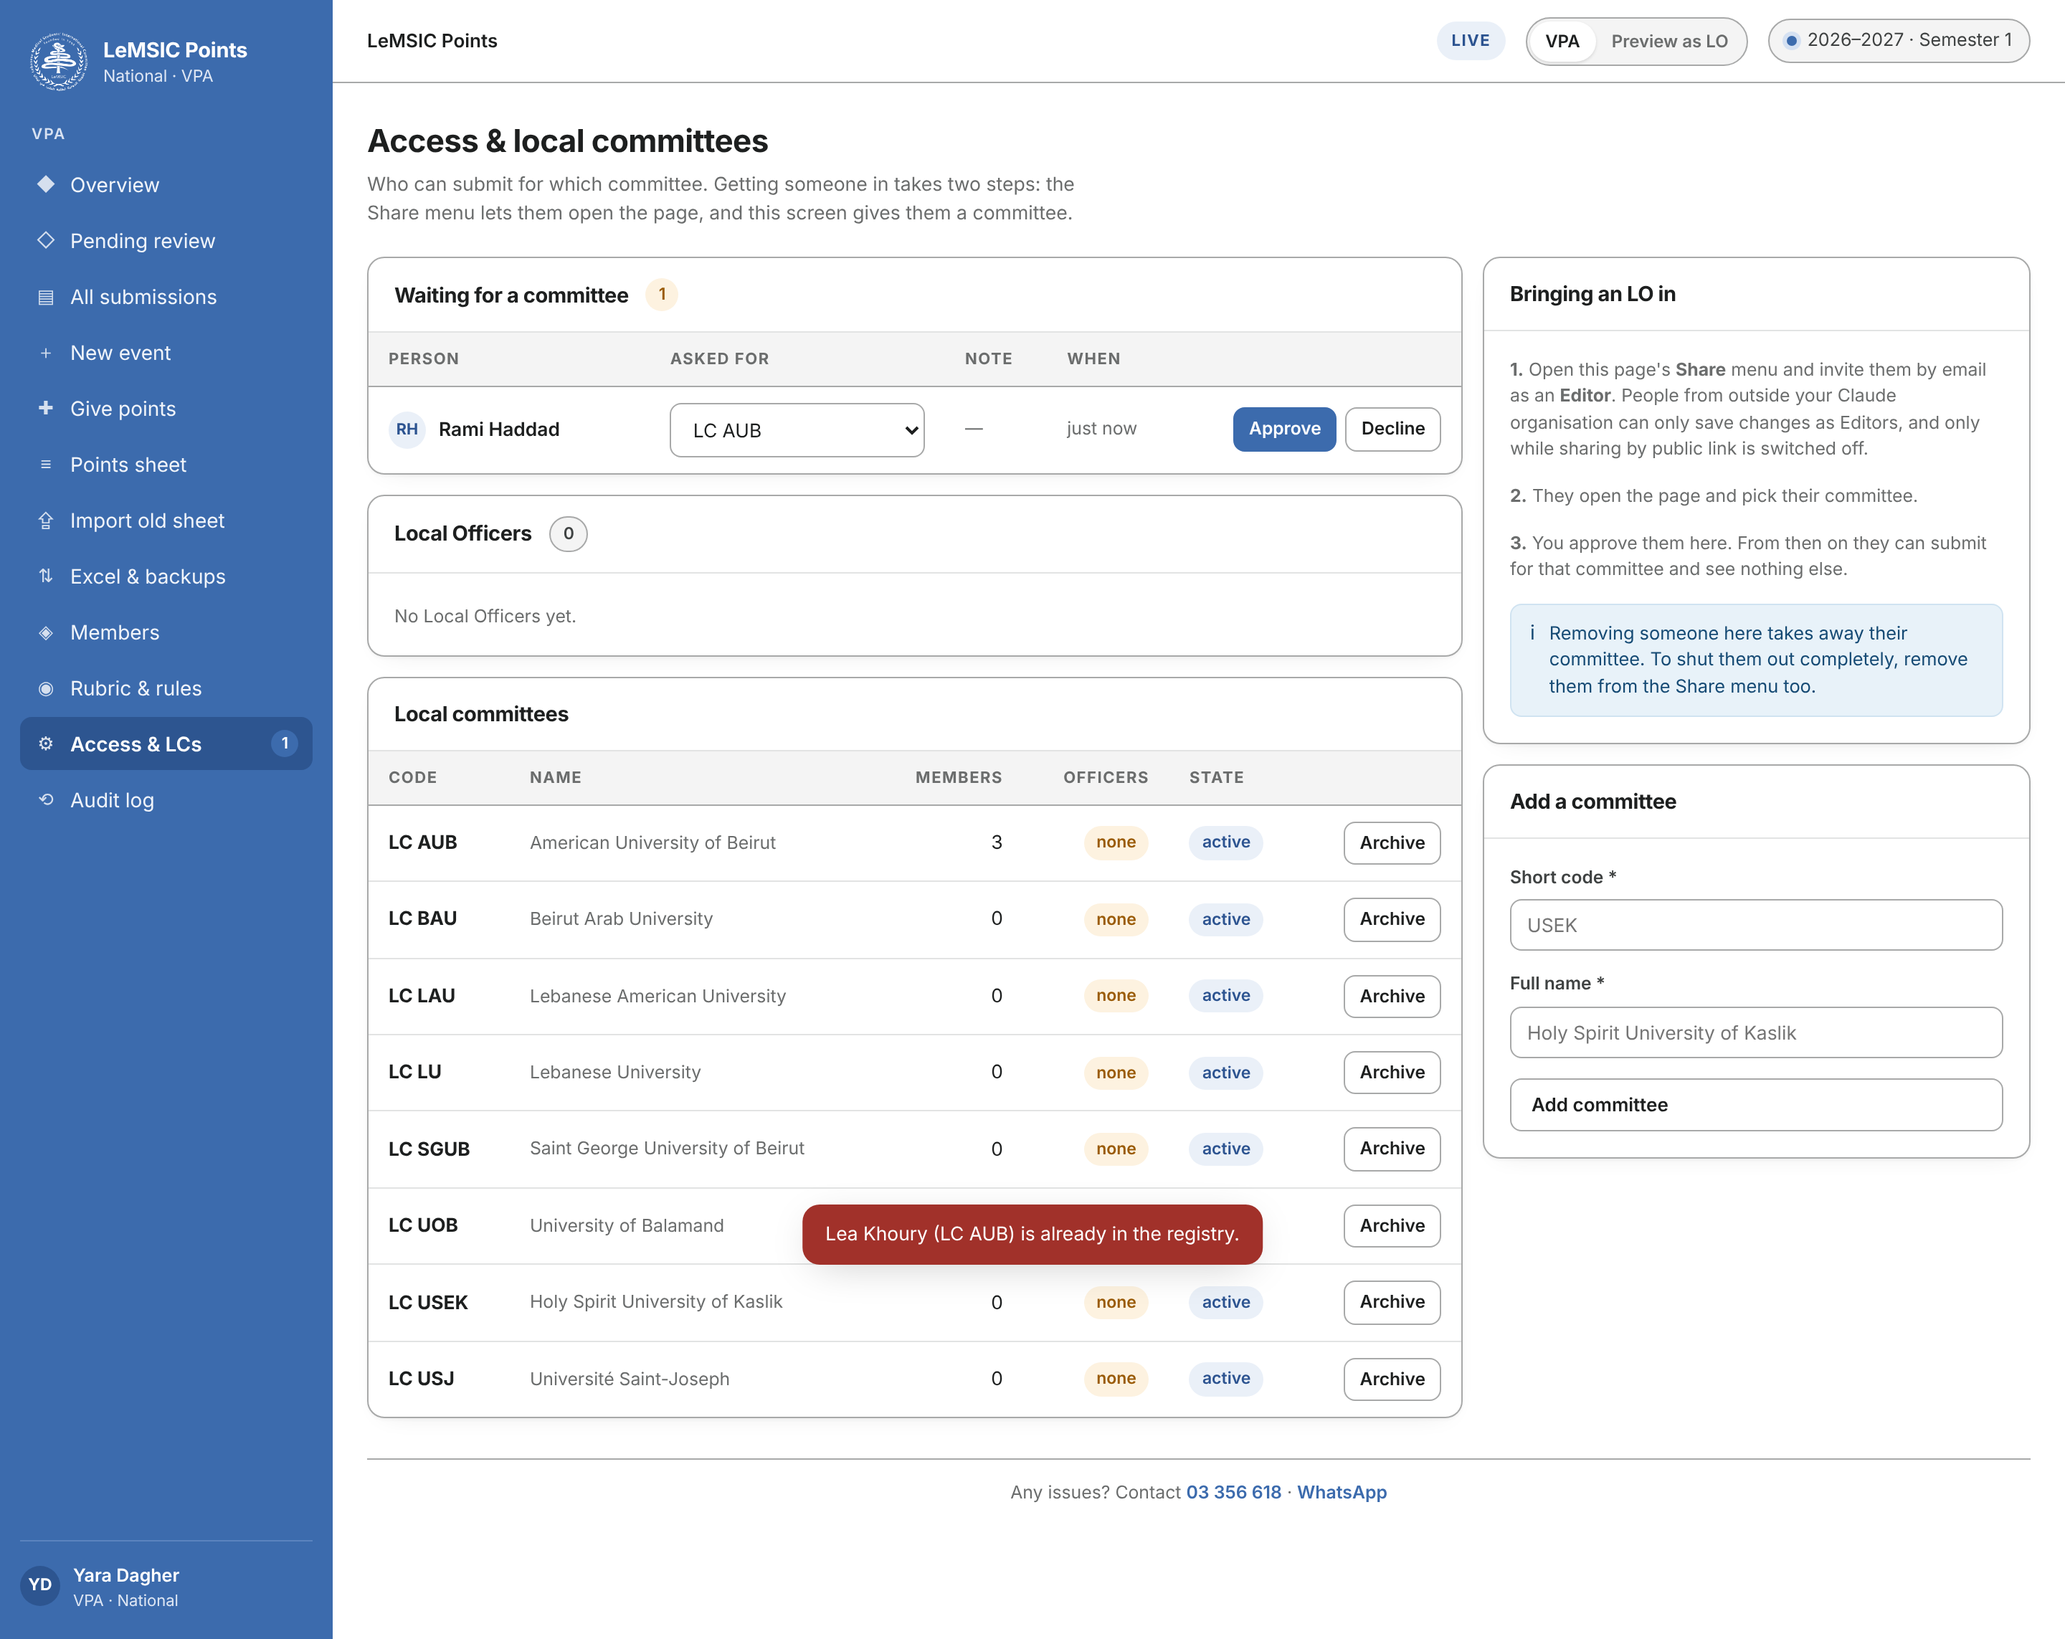
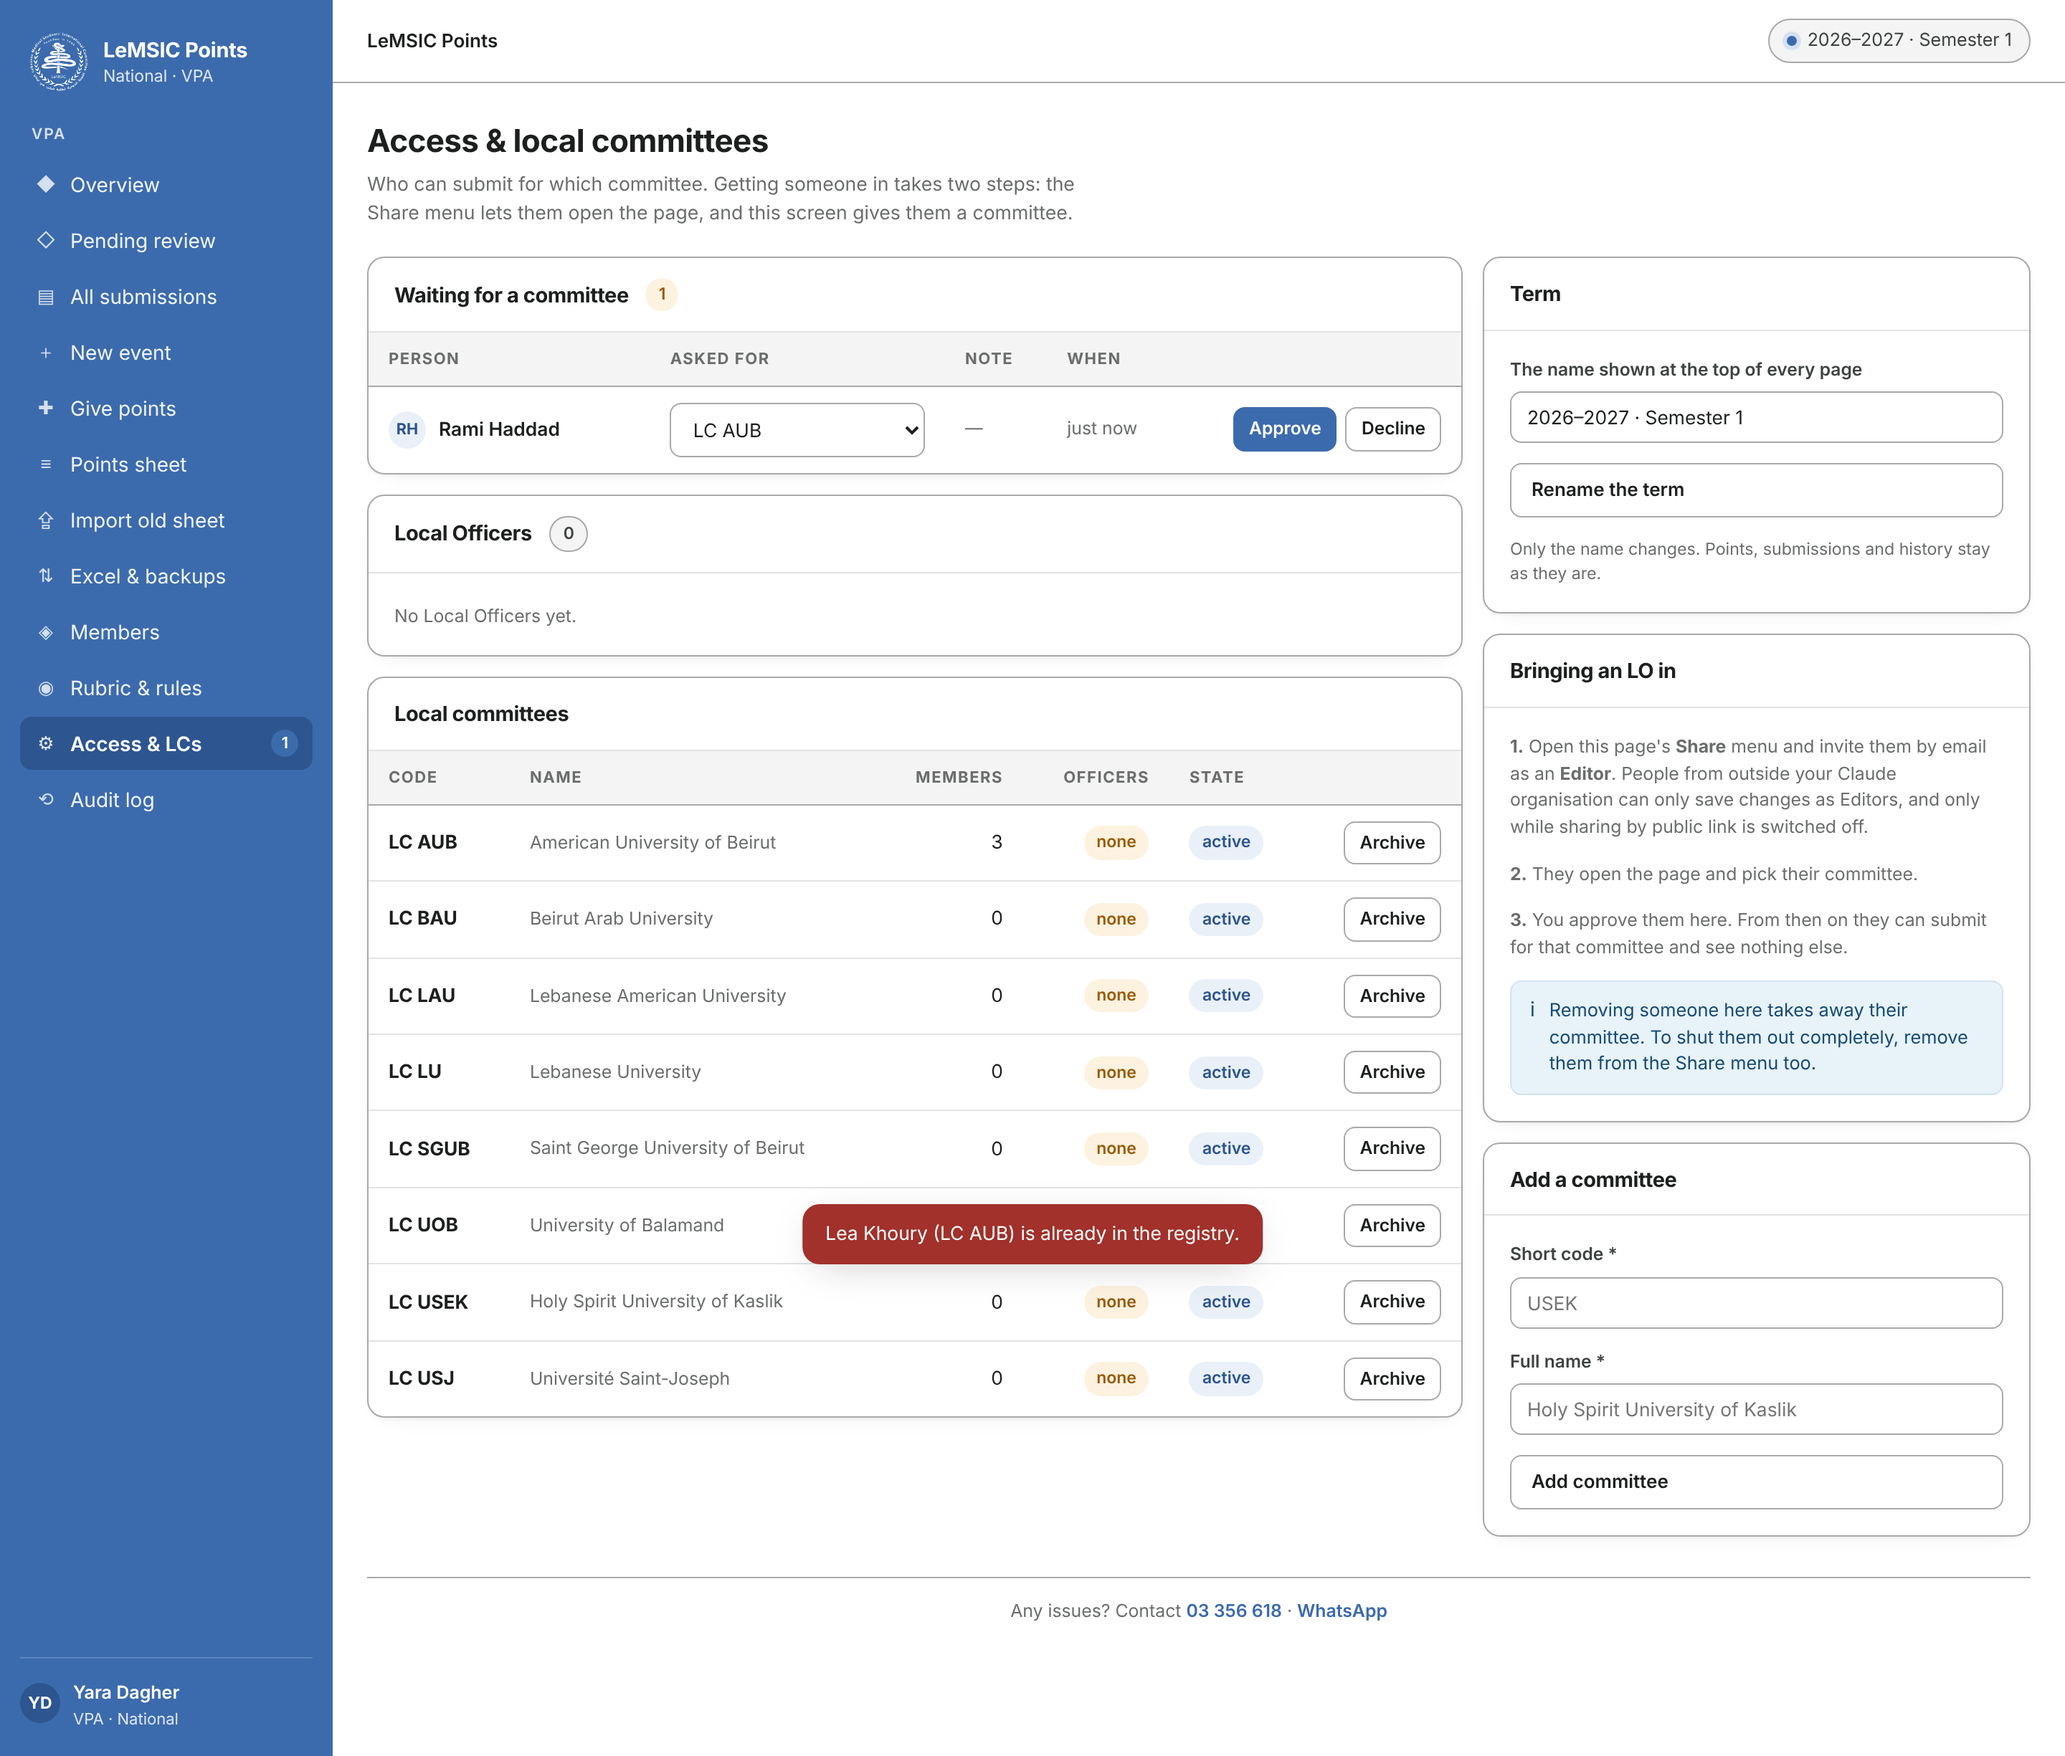
Drop the Live label and the Preview-as-LO switch from the top bar
Only the demo still labels itself. The VPA always sees the VPA
screens; the top bar keeps the term and, once connected, the Excel
status.

Claude-Session: https://claude.ai/code/session_012bK2P4cmT6baufXMRm4cyf

diff --git a/artifact/app.template.html b/artifact/app.template.html
@@ -2211,11 +2211,11 @@ function render() {
   const subtitle = isVpa() ? "National · VPA" : S.role === "none" ? "Waiting for access" : "LC " + (myLc() || "");
   const nameShown = S.mode === "demo" ? DEMO_PEOPLE[S.uid] : S.platform === "firebase" ? positionLabel(S.uid) : (S.myName || "You");
 
-  const modeChip = `<span class="modechip ${S.mode}">${S.mode === "live" ? "Live" : "Demo"}</span>`;
+  const modeChip = S.mode === "demo" ? `<span class="modechip demo">Demo</span>` : "";
   const xlChip = isVpa() && msConfig() && S.excel && S.excel.itemId
     ? `<button class="pill ${S.xlBusy ? "flat" : excelBehind() ? "pend" : "ok"}" style="border:0;cursor:pointer" data-act="go" data-r="excel" title="The shared Excel workbook">${S.xlBusy ? "Excel: updating…" : excelBehind() ? "Excel: behind" : "Excel ✓"}</button>` : "";
   const demoSwitch = S.mode === "demo" ? `<div class="seg" role="group" aria-label="Try the demo as"><button class="${S.role === "lo" ? "on" : ""}" data-act="demoRole" data-v="lo">LO · LC AUB</button><button class="${S.role === "vpa" ? "on" : ""}" data-act="demoRole" data-v="vpa">VPA</button></div>` : "";
-  const ownerSwitch = S.mode === "live" && S.role === "vpa" ? `<div class="seg" role="group" aria-label="View as"><button class="${!S.viewAsLo ? "on" : ""}" data-act="viewAs" data-v="vpa">VPA</button><button class="${S.viewAsLo ? "on" : ""}" data-act="viewAs" data-v="lo">Preview as LO</button></div>` : "";
+  const ownerSwitch = ""; // the VPA always sees the VPA screens
 
   let banner = "";
   if (S.mode === "demo") banner = note("warn", `<b>Demo.</b> This runs only in your browser with example people and events. Nothing you do here reaches anyone else. <button class="linkbtn" data-act="resetDemo">Start the demo over</button>${S.liveAvailable ? ` · <button class="linkbtn" data-act="leaveDemo">Back to the live page</button>` : ""}`);

diff --git a/artifact/lemsic-points.html b/artifact/lemsic-points.html
@@ -2453,11 +2453,11 @@ function render() {
   const subtitle = isVpa() ? "National · VPA" : S.role === "none" ? "Waiting for access" : "LC " + (myLc() || "");
   const nameShown = S.mode === "demo" ? DEMO_PEOPLE[S.uid] : S.platform === "firebase" ? positionLabel(S.uid) : (S.myName || "You");
 
-  const modeChip = `<span class="modechip ${S.mode}">${S.mode === "live" ? "Live" : "Demo"}</span>`;
+  const modeChip = S.mode === "demo" ? `<span class="modechip demo">Demo</span>` : "";
   const xlChip = isVpa() && msConfig() && S.excel && S.excel.itemId
     ? `<button class="pill ${S.xlBusy ? "flat" : excelBehind() ? "pend" : "ok"}" style="border:0;cursor:pointer" data-act="go" data-r="excel" title="The shared Excel workbook">${S.xlBusy ? "Excel: updating…" : excelBehind() ? "Excel: behind" : "Excel ✓"}</button>` : "";
   const demoSwitch = S.mode === "demo" ? `<div class="seg" role="group" aria-label="Try the demo as"><button class="${S.role === "lo" ? "on" : ""}" data-act="demoRole" data-v="lo">LO · LC AUB</button><button class="${S.role === "vpa" ? "on" : ""}" data-act="demoRole" data-v="vpa">VPA</button></div>` : "";
-  const ownerSwitch = S.mode === "live" && S.role === "vpa" ? `<div class="seg" role="group" aria-label="View as"><button class="${!S.viewAsLo ? "on" : ""}" data-act="viewAs" data-v="vpa">VPA</button><button class="${S.viewAsLo ? "on" : ""}" data-act="viewAs" data-v="lo">Preview as LO</button></div>` : "";
+  const ownerSwitch = ""; // the VPA always sees the VPA screens
 
   let banner = "";
   if (S.mode === "demo") banner = note("warn", `<b>Demo.</b> This runs only in your browser with example people and events. Nothing you do here reaches anyone else. <button class="linkbtn" data-act="resetDemo">Start the demo over</button>${S.liveAvailable ? ` · <button class="linkbtn" data-act="leaveDemo">Back to the live page</button>` : ""}`);

diff --git a/docs/index.html b/docs/index.html
@@ -2458,11 +2458,11 @@ function render() {
   const subtitle = isVpa() ? "National · VPA" : S.role === "none" ? "Waiting for access" : "LC " + (myLc() || "");
   const nameShown = S.mode === "demo" ? DEMO_PEOPLE[S.uid] : S.platform === "firebase" ? positionLabel(S.uid) : (S.myName || "You");
 
-  const modeChip = `<span class="modechip ${S.mode}">${S.mode === "live" ? "Live" : "Demo"}</span>`;
+  const modeChip = S.mode === "demo" ? `<span class="modechip demo">Demo</span>` : "";
   const xlChip = isVpa() && msConfig() && S.excel && S.excel.itemId
     ? `<button class="pill ${S.xlBusy ? "flat" : excelBehind() ? "pend" : "ok"}" style="border:0;cursor:pointer" data-act="go" data-r="excel" title="The shared Excel workbook">${S.xlBusy ? "Excel: updating…" : excelBehind() ? "Excel: behind" : "Excel ✓"}</button>` : "";
   const demoSwitch = S.mode === "demo" ? `<div class="seg" role="group" aria-label="Try the demo as"><button class="${S.role === "lo" ? "on" : ""}" data-act="demoRole" data-v="lo">LO · LC AUB</button><button class="${S.role === "vpa" ? "on" : ""}" data-act="demoRole" data-v="vpa">VPA</button></div>` : "";
-  const ownerSwitch = S.mode === "live" && S.role === "vpa" ? `<div class="seg" role="group" aria-label="View as"><button class="${!S.viewAsLo ? "on" : ""}" data-act="viewAs" data-v="vpa">VPA</button><button class="${S.viewAsLo ? "on" : ""}" data-act="viewAs" data-v="lo">Preview as LO</button></div>` : "";
+  const ownerSwitch = ""; // the VPA always sees the VPA screens
 
   let banner = "";
   if (S.mode === "demo") banner = note("warn", `<b>Demo.</b> This runs only in your browser with example people and events. Nothing you do here reaches anyone else. <button class="linkbtn" data-act="resetDemo">Start the demo over</button>${S.liveAvailable ? ` · <button class="linkbtn" data-act="leaveDemo">Back to the live page</button>` : ""}`);
